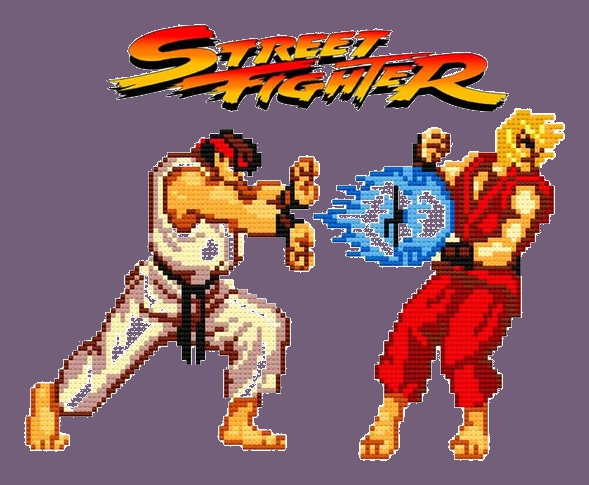
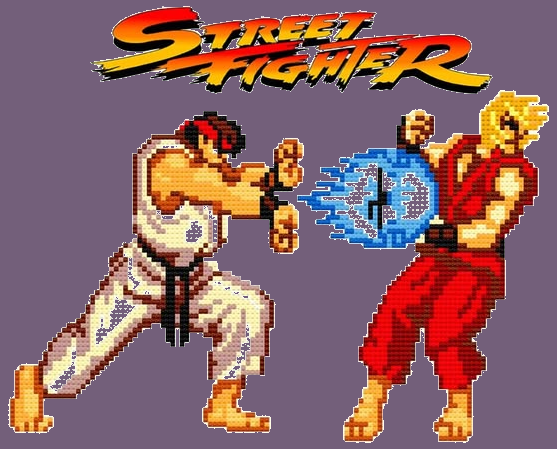
Real Northwestern bio; right-align the "crazy about" column
- site.role / tagline / location back to the Northwestern identity + the
  provided description; boot intro lines match (added home-price.model line)
- .split: right column (crazy about) is now a fixed 20rem track flush to the
  right edge, lining up with the hero portrait above it
- fighters.png re-cropped tighter (less purple padding)

diff --git a/src/data/site.ts b/src/data/site.ts
@@ -6,14 +6,13 @@
 export const site = {
   name: "Daniel Cai",
   fullName: "Daniel (Haofan) Cai",
-  role: "Statistics + Economics · Data Science minor // UC Berkeley",
-  // one line under the name. PLACEHOLDER — this is just the right shape/length;
-  // swap in your own wording.
+  role: "Data Science & Economics // Northwestern",
+  // one or two sentences under the name
   tagline:
-    "Full-stack engineer & ML researcher — 40+ shipped products, a U.S. patent, NLP research in 10+ journals.",
+    "Data Science & Economics student at Northwestern. I lead risk modeling for GridGate's queue-projection team, and intern in strategy at Fantuan Delivery and policy-risk analysis at Zenitera Funds. I also built an XGBoost home-price model for IDXExchange.",
   url: "https://danielchf2006.github.io",
   email: "danielcai2029@u.northwestern.edu",
-  location: "Berkeley, CA",
+  location: "Evanston, IL",
   // one-page PDF — drop it in /public/resume/ (see that folder's README)
   resumePath: "/resume/Daniel-Cai-Resume.pdf",
   // the homepage "crazy about — last 7 days" callout
